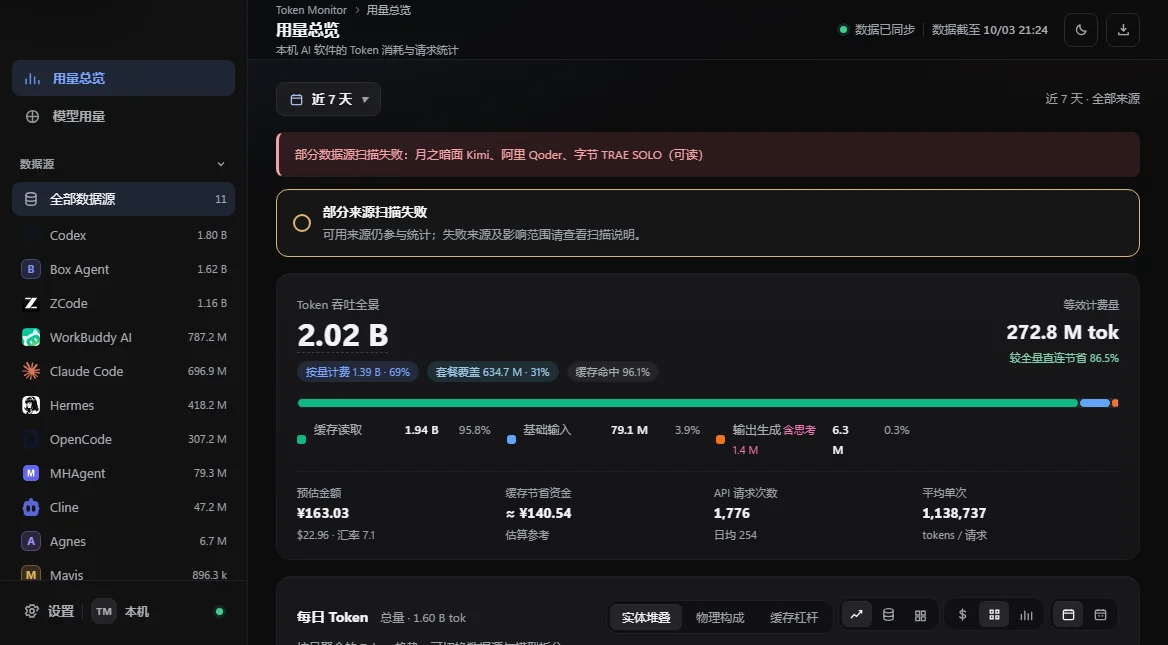
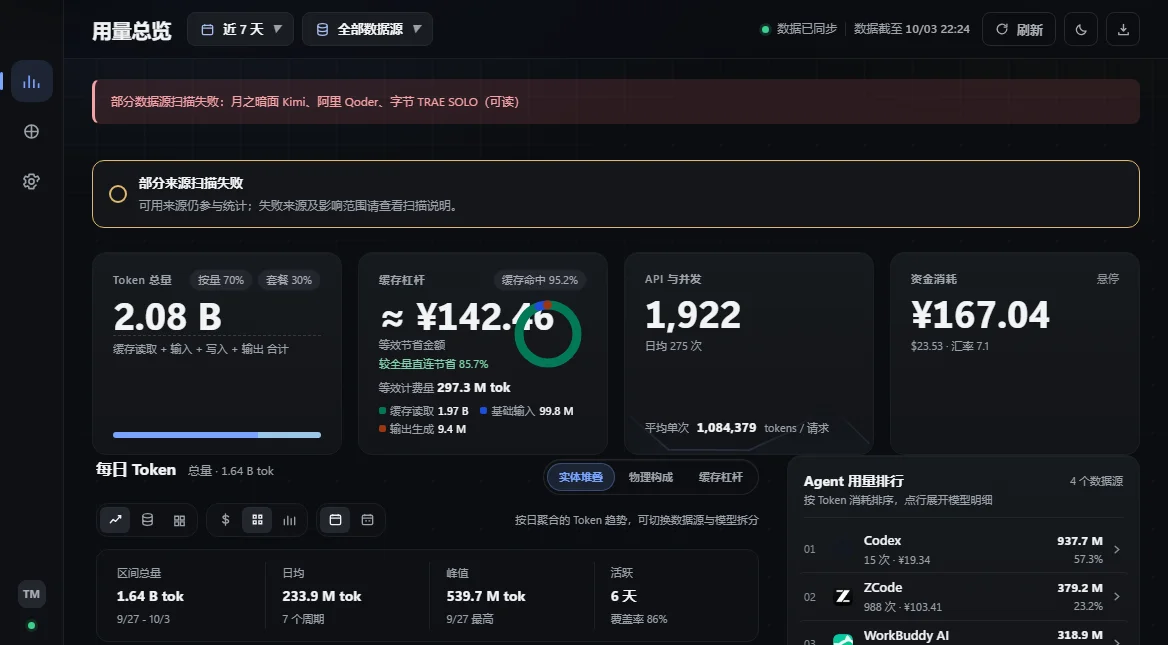
chore(token-monitor): 下载页同步 v2.0.0 —— 静态兜底版本与界面截图
- 6 处静态兜底版本 v1.9.15 -> v2.0.0（运行时仍由 /tm-api/latest 动态覆盖）
- 总览截图 alt/说明改为 v2.0 的 Bento 结构（旧文案提到已取消的「全景舱 / 物理构成条」）
- 视图名与 App 内导航对齐：模型成本 -> 模型用量
- 更新 4 张界面资产（overview/models/scan 1320×806/403、app-shot 1168×645）
- 校验：npm run build 通过；npm run test:ui 10/10 通过；div 开闭 70/70 未变；未引入 BOM

diff --git a/public/token-monitor/index.html b/public/token-monitor/index.html
@@ -348,7 +348,7 @@ footer .mono{font-family:var(--mono);font-variant-numeric:tabular-nums}
   <a class="lk sec" href="#cover">覆盖</a>
   <a class="lk sec" href="#faq">常见问题</a>
   <span class="sp"></span>
-  <span class="pill" id="verPill">v1.9.15</span>
+  <span class="pill" id="verPill">v2.0.0</span>
   <a class="lk" href="https://github.com/liixnglinb/token-monitor" target="_blank" rel="noopener">GitHub</a>
   <a class="btn-sm" href="#download">获取安装版</a>
 </div></nav>
@@ -361,7 +361,7 @@ footer .mono{font-family:var(--mono);font-variant-numeric:tabular-nums}
     <div class="cta rv">
       <a class="btn-main" id="dlMain" data-dl href="#download">
         <svg viewBox="0 0 24 24" fill="none" stroke="currentColor" stroke-width="2.2" stroke-linecap="round" stroke-linejoin="round" aria-hidden="true"><path d="M12 3.5v11.5M7 10l5 5 5-5M5 20.5h14"/></svg>
-        下载安装版<b id="verBtn">v1.9.15</b></a>
+        下载安装版<b id="verBtn">v2.0.0</b></a>
       <a class="btn-ghost" href="#shots">先看看界面</a>
     </div>
     <div class="chips rv">
@@ -405,13 +405,13 @@ footer .mono{font-family:var(--mono);font-variant-numeric:tabular-nums}
   <p class="sec-sub">三块视图覆盖「花了多少」「花在哪」「为什么这么算」：总览看趋势与逐日明细，模型成本看每个模型的均价与占比，扫描与缓存页把套餐、未计价和过滤掉的部分单独交代。</p>
   <div class="gal">
     <div class="card gcard">
-      <img src="/token-monitor/shots/overview.webp" width="1320" height="806" alt="用量总览：Token 吞吐全景舱、物理构成条、每日趋势与缓存杠杆视角">
-      <div class="gcap"><b>用量总览</b><p>金额 / 请求 / Tokens / 缓存命中四张卡，下面是每日 Token 曲线与逐日明细，可切按天、按周、按月。</p></div>
+      <img src="/token-monitor/shots/overview.webp" width="1320" height="806" alt="用量总览：四联指标卡（Token 总量 / 缓存杠杆 / API 与并发 / 资金消耗）、主趋势图、右侧 Agent 排行、模型分布与逐日明细">
+      <div class="gcap"><b>用量总览</b><p>四张指标卡（Token 总量 / 缓存杠杆 / API 与并发 / 资金消耗）打头，中间是可切「实体堆叠 / 物理构成 / 缓存杠杆」三视角的主趋势图与 Agent 排行，底部是模型分布与逐日明细。</p></div>
     </div>
     <div class="gcol">
       <div class="card gcard">
         <img src="/token-monitor/shots/models.webp" width="1320" height="806" alt="模型用量：模型明细表、计费三态徽标、搜索排序与分页">
-        <div class="gcap"><b>模型成本</b><p>按模型逐条计价：tokens、请求次数、消耗金额、均价（¥/百万 tok）与金额占比。</p></div>
+        <div class="gcap"><b>模型用量</b><p>按模型逐条计价：tokens、请求次数、消耗金额、均价（¥/百万 tok）与金额占比。</p></div>
       </div>
       <div class="card gcard">
         <img src="/token-monitor/shots/scan.webp" width="1320" height="403" alt="设置：扫描与缓存、主题切换与软件更新">
@@ -423,14 +423,14 @@ footer .mono{font-family:var(--mono);font-variant-numeric:tabular-nums}
 
 <section id="download" class="rv"><div class="wrap">
   <div class="shead"><span class="no">02</span><h2>下载</h2><span class="sp"></span>
-    <span class="note" id="dlVer">v1.9.15</span></div>
+    <span class="note" id="dlVer">v2.0.0</span></div>
   <div class="card dlcard">
     <div class="dl-row" data-dl id="dlRow">
       <span class="nm">Token Monitor 安装版<i class="tag">推荐</i></span>
       <span class="ext">.exe</span>
-      <span class="fn" id="fileName">TokenMonitor-setup-v1.9.15.exe</span>
+      <span class="fn" id="fileName">TokenMonitor-setup-v2.0.0.exe</span>
       <span class="sp"></span>
-      <span class="meta" id="dlMeta">约 29 MB · v1.9.15</span>
+      <span class="meta" id="dlMeta">约 29 MB · v2.0.0</span>
       <span class="go"><svg viewBox="0 0 24 24" width="15" height="15" fill="none" stroke="currentColor" stroke-width="2.2" stroke-linecap="round" stroke-linejoin="round" aria-hidden="true"><path d="M9 5.5l6.5 6.5L9 18.5"/></svg></span>
     </div>
 
@@ -529,7 +529,7 @@ footer .mono{font-family:var(--mono);font-variant-numeric:tabular-nums}
   <span class="sp"></span>
   <a href="https://github.com/liixnglinb/token-monitor" target="_blank" rel="noopener">源码仓库</a>
   <a href="https://github.com/liixnglinb/token-monitor/releases" target="_blank" rel="noopener">全部版本</a>
-  <span class="mono" id="footVer">v1.9.15 · 81 条注册路径</span>
+  <span class="mono" id="footVer">v2.0.0 · 81 条注册路径</span>
 </div></footer>
 
 <script>
